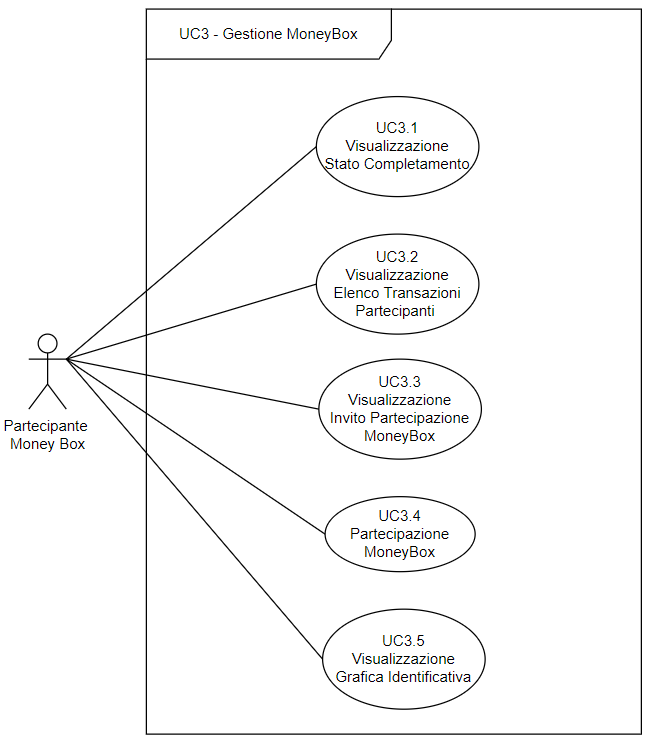
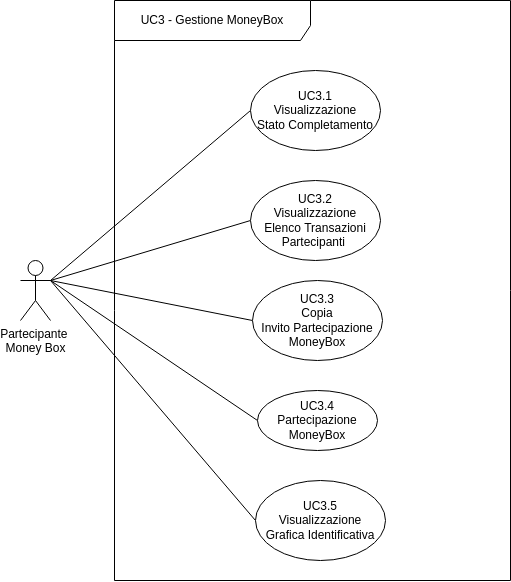
Fixes to Use Cases

diff --git a/src/analisi_dei_requisiti/sezioni/casi_uso.tex b/src/analisi_dei_requisiti/sezioni/casi_uso.tex
@@ -27,7 +27,7 @@ sono quindi presenti differenti attori nella gerarchia:
     \caption{Diagramma degli attori}
 \end{figure}
 
-\subsection{UC1 - Inizializzazione della Transazione}\label{subsection: UC1}
+\subsection{UC1 - Inizializzazione dell'Ordine}\label{subsection: UC1}
 
 \begin{figure}[H]
     \centering
@@ -38,7 +38,7 @@ sono quindi presenti differenti attori nella gerarchia:
 \begin{itemize}
     \item Attore primario: e-commerce\glo{};
     \item Precondizioni: il sistema è raggiungibile e funzionante;
-    \item Postcondizioni: la transazione viene caricata nel sistema, l'utente viene reindirizzato alla pagina di checkout;
+    \item Postcondizioni: l'ordine viene caricato nel sistema, l'utente viene reindirizzato alla pagina di checkout;
     \item Scenario principale: L'e-commerce\glo{} delega il pagamento comunicando la somma richiesta e l'indirizzo del destinatario.
 \end{itemize}
 
@@ -52,7 +52,7 @@ sono quindi presenti differenti attori nella gerarchia:
 
 \begin{itemize}
     \item Attore primario: utente proprietario dell'ordine, acquirente;
-    \item Precondizioni: l'e-commerce\glo{} ha iniziato la transazione [UC1];
+    \item Precondizioni: l'e-commerce\glo{} ha iniziato l'ordine [UC1];
     \item Postcondizioni: viene visualizzato l'esito dell'operazione;
     \item Scenario principale:
     \begin{enumerate}
@@ -67,7 +67,7 @@ sono quindi presenti differenti attori nella gerarchia:
 
 \begin{itemize}
     \item Attore primario: acquirente;
-    \item Precondizioni: l'e-commerce\glo{} ha iniziato la transazione [UC1];
+    \item Precondizioni: l'e-commerce\glo{} ha iniziato l'ordine [UC1];
     \item Postcondizioni: l'acquirente ha visualizzato il riepilogo dell'ordine;
     \item Scenario principale:
           \begin{enumerate}
@@ -80,7 +80,7 @@ sono quindi presenti differenti attori nella gerarchia:
 
 \begin{itemize}
     \item Attore primario: utente proprietario dell'ordine;
-    \item Precondizioni: l'e-commerce\glo{} ha iniziato la transazione [UC1];
+    \item Precondizioni: l'e-commerce\glo{} ha iniziato l'ordine [UC1];
     \item Postcondizioni: il proprietario dell'ordine ha selezionato un metodo di pagamento;
     \item Scenario principale: il proprietario dell'ordine seleziona la tipologia di pagamento obbligando i successivi pagamenti per questa transazione alla tipologia scelta;
     \item Estensioni:
@@ -102,7 +102,7 @@ sono quindi presenti differenti attori nella gerarchia:
 
 \begin{itemize}
     \item Attore primario: utente proprietario dell'ordine;
-    \item Precondizioni: l'e-commerce\glo{} ha iniziato la transazione [UC1];
+    \item Precondizioni: l'e-commerce\glo{} ha iniziato l'ordine [UC1];
     \item Postcondizioni: il proprietario dell'ordine ha selezionato pagamento unico come metodo di pagamento;
     \item Scenario principale: 
         \begin{itemize}
@@ -115,13 +115,13 @@ sono quindi presenti differenti attori nella gerarchia:
 
 \begin{itemize}
     \item Attore primario: utente proprietario dell'ordine;
-    \item Precondizioni: l'e-commerce\glo{} ha iniziato la transazione [UC1];
-    \item Postcondizioni: il proprietario dell'ordine ha selezionato pagamento MoneyBox\glo{} come metodo di pagamento;
+    \item Precondizioni: l'e-commerce\glo{} ha iniziato l'ordine [UC1];
+    \item Postcondizioni: il proprietario dell'ordine ha selezionato pagamento MoneyBox\glo{} come metodo di pagamento e può procedere alla sua creazione;
     \item Scenario principale: 
         \begin{itemize}
             \item Il proprietario dell'ordine seleziona pagamento MoneyBox\glo{} come metodo di pagamento;
-            \item Viene creata la MoneyBox\glo{};
-            \item Vengono vincolati i successivi pagamenti per questa transazione ad un pagamento parziale della somma totale rimanente (UC2.3.2), i quali potranno essere effettuati da un qualsiasi partecipante MoneyBox\glo{}.
+            \item Il proprietario dell'ordine può selezionare un ammontare iniziale da versare nella MoneyBox\glo{};
+            \item Il proprietario dell'ordine può procedere alla creazione della MoneyBox\glo{}.
         \end{itemize}
 \end{itemize}
 
@@ -129,8 +129,8 @@ sono quindi presenti differenti attori nella gerarchia:
 
 \begin{itemize}
     \item Attore primario: utente proprietario dell'ordine;
-    \item Precondizioni: l'e-commerce\glo{} ha iniziato la transazione [UC1], transazione già presente in blockchain;
-    \item Postcondizioni: il proprietario dell'ordine ha visualizzato il messaggio di avviso transazione esistente;
+    \item Precondizioni: l'e-commerce\glo{} ha iniziato l'ordine [UC1], transazione già presente in blockchain;
+    \item Postcondizioni: il proprietario dell'ordine ha visualizzato un messaggio di errore;
     \item Scenario principale: il proprietario dell'ordine visualizza il messaggio di avviso, poiché la transazione è già presente in blockchain\glo{}.
 \end{itemize}
 
@@ -145,15 +145,15 @@ sono quindi presenti differenti attori nella gerarchia:
 \begin{itemize}
     \item Attore primario: acquirente;
     \item Attore secondario: Metamask\glo{};
-    \item Precondizioni: è stata selezionata una tipologia di pagamento per la transazione interessata dal proprietario dell'ordine [UC2.2], 
+    \item Precondizioni: è stata selezionata una tipologia di pagamento per l'ordine interessato, dal proprietario dell'ordine [UC2.2], 
             l'acquirente ha connesso il proprio wallet\glo{} tramite Metamask\glo{} [UC4];
     \item Postcondizioni: l'acquirente ha effettuato il pagamento;
     \item Scenario principale:
           \begin{enumerate}
               \item L'acquirente visualizza il pop-up di Metamask\glo{} con i dettagli della transazione;
               \item L'acquirente visualizza un overlay di caricamento sulla pagina di ShopChain;
-              \item L'acquirente autorizza la transazione per l'importo impostato a seconda della tipologia precedentemente scelta dal proprietario dell'ordine (in UC2.2);
-              \item L'acquirente visualizza un messaggio di conferma di avvenuto pagamento.
+              \item L'acquirente autorizza la transazione per l'importo impostato (che nel caso MoneyBox\glo{} può essere nullo o a scelta) a seconda della tipologia precedentemente selezionata dal proprietario dell'ordine (in UC2.2);
+              \item L'acquirente visualizza un messaggio di conferma di avvenuto pagamento o un riscontro dell'avvenuta creazione della MoneyBox\glo{}.
           \end{enumerate}
     \item Estensioni:
           \begin{enumerate}
@@ -190,14 +190,14 @@ sono quindi presenti differenti attori nella gerarchia:
 
 \begin{itemize}
     \item Attore primario: partecipante MoneyBox\glo{};
-    \item Precondizioni: è stata selezionato Pagamento MoneyBox\glo{} come tipologia di pagamento per la transazione interessata [UC2.2.2], 
-            Il partecipante MoneyBox\glo{} ha connesso il proprio wallet\glo{} tramite Metamask\glo{} [UC4];
-    \item Postcondizioni: Il partecipante MoneyBox\glo{} ha pagato l'importo scelto;
+    \item Precondizioni: è stato selezionato Pagamento MoneyBox\glo{} come tipologia di pagamento per la transazione interessata [UC2.2.2], 
+            il partecipante MoneyBox\glo{} ha connesso il proprio wallet\glo{} tramite Metamask\glo{} [UC4];
+    \item Postcondizioni: la MoneyBox\glo{} è registrata in blockchain e il partecipante MoneyBox\glo{} ha pagato l'importo scelto se non nullo;
     \item Scenario principale:
     \begin{enumerate}
         \item Il partecipante MoneyBox\glo{} visualizza il pop-up di Metamask\glo{} con i dettagli della transazione;
         \item Il partecipante MoneyBox\glo{} visualizza un overlay di caricamento sulla pagina di ShopChain;
-        \item Il partecipante MoneyBox\glo{} autorizza la transazione per l'importo scelto;
+        \item Il partecipante MoneyBox\glo{} autorizza la transazione relativa alla creazione della MoneyBox\glo{} e ad un eventuale suo versamento a scelta;
         \item Il partecipante MoneyBox\glo{} visualizza un messaggio di conferma di avvenuto pagamento.
     \end{enumerate}
 \end{itemize}
@@ -215,7 +215,7 @@ sono quindi presenti differenti attori nella gerarchia:
           \end{enumerate}
 \end{itemize}
 
-\paragraph{UC2.4 - Visualizzazione Codice di Sblocco}
+\subsection{UC2.4 - Visualizzazione Codice di Sblocco}
 
 \begin{itemize}
     \item Attore primario: utente proprietario dell'ordine;
@@ -238,13 +238,13 @@ sono quindi presenti differenti attori nella gerarchia:
 
 \begin{itemize}
     \item Attore primario: partecipante MoneyBox\glo{};
-    \item Precondizioni: il proprietario dell'ordine ha selezionato il pagamento MoneyBox\glo{} [UC2.2.2];
+    \item Precondizioni: il proprietario dell'ordine ha selezionato il pagamento MoneyBox\glo [UC2.2.2];
     \item Postcondizioni: il partecipante MoneyBox\glo{} ha visualizzato i dati relativi la MoneyBox\glo{};
     \item Scenario principale:
           \begin{enumerate}
                 \item Il partecipante MoneyBox\glo{} può visualizzare lo stato del completamento in formato percentuale e il saldo mancante [UC3.1];
                 \item Il partecipante MoneyBox\glo{} può visualizzare un elenco delle transazioni partecipanti [UC3.2];
-                \item Il partecipante MoneyBox\glo{} può visualizzare l'invito per partecipare alla MoneyBox\glo{} [UC3.3];
+                \item Il partecipante MoneyBox\glo{} può copiare l'invito di partecipazione alla MoneyBox\glo{} [UC3.3];
                 \item Il partecipante MoneyBox\glo{} può partecipare alla MoneyBox\glo{} [UC3.4];
                 \item Il partecipante MoneyBox\glo{} può visualizzare una grafica identificativa della MoneyBox\glo{} [UC3.5].
     \end{enumerate}
@@ -254,7 +254,7 @@ sono quindi presenti differenti attori nella gerarchia:
 
 \begin{itemize}
     \item Attore primario: partecipante MoneyBox\glo{};
-    \item Precondizioni: il proprietario dell'ordine ha selezionato il pagamento MoneyBox\glo{} [UC2.2.2], 
+    \item Precondizioni: il proprietario dell'ordine ha selezionato il pagamento MoneyBox\glo [UC2.2.2], 
             l'utente dispone dell'invito valido ad una MoneyBox\glo{} [UC3.3];
     \item Postcondizioni: il partecipante MoneyBox\glo{} ha visualizzato lo stato del completamento;
     \item Scenario principale: il partecipante MoneyBox\glo{} visualizza lo stato del completamento in formato percentuale e il saldo mancante.
@@ -264,7 +264,7 @@ sono quindi presenti differenti attori nella gerarchia:
 
 \begin{itemize}
     \item Attore primario: partecipante MoneyBox\glo{};
-    \item Precondizioni: il proprietario dell'ordine ha selezionato il pagamento MoneyBox\glo{} [UC2.2.2], 
+    \item Precondizioni: il proprietario dell'ordine ha selezionato il pagamento MoneyBox\glo [UC2.2.2], 
             l'utente dispone dell'invito valido ad una MoneyBox\glo{} [UC3.3];
     \item Postcondizioni: il partecipante MoneyBox\glo{} ha visualizzato l'elenco delle transazioni partecipanti;
     \item Scenario principale: il partecipante MoneyBox\glo{} visualizza l'elenco delle transazioni partecipanti con i seguenti dettagli:
@@ -275,27 +275,26 @@ sono quindi presenti differenti attori nella gerarchia:
         \end{itemize}
 \end{itemize}
 
-\subsubsection{UC3.3 - Visualizzazione Invito Partecipazione MoneyBox}
+\subsubsection{UC3.3 - Copia Invito Partecipazione MoneyBox}
 
 \begin{itemize}
     \item Attore primario: partecipante MoneyBox\glo{};
-    \item Precondizioni: il proprietario dell'ordine ha selezionato il pagamento MoneyBox\glo{} [UC2.2.2];
-    \item Postcondizioni: il partecipante MoneyBox\glo{} ha visualizzato l'invito alla MoneyBox\glo{};
-    \item Scenario principale: il partecipante MoneyBox\glo{} visualizza l'invito alla MoneyBox\glo{}.
+    \item Precondizioni: il proprietario dell'ordine ha selezionato il pagamento MoneyBox\glo [UC2.2.2], la MoneyBox\glo{} è stata creata [UC2.3.2] e l'utente visualizza correttamente lo stato della MoneyBox\glo{} [UC3.1];
+    \item Postcondizioni: il partecipante MoneyBox\glo{} ha copiato negli appunti il link di condivisione della MoneyBox\glo{}.
+    \item Scenario principale: il partecipante MoneyBox\glo{} clicca un pulsante che copia negli appunti il link di condivisione della MoneyBox\glo{}.
 \end{itemize}
 
 \subsubsection{UC3.4 - Partecipazione MoneyBox}
 
 \begin{itemize}
     \item Attore primario: partecipante MoneyBox\glo{};
-    \item Precondizioni: il proprietario dell'ordine ha selezionato il pagamento MoneyBox\glo{} [UC2.2.2], 
+    \item Precondizioni: il proprietario dell'ordine ha selezionato il pagamento MoneyBox\glo [UC2.2.2], 
             l'utente dispone dell'invito valido ad una MoneyBox\glo{} [UC3.3];
-    \item Postcondizioni: il partecipante MoneyBox\glo{} ha selezionato la quota da versare e ha visualizzato la pagina di checkout;
+    \item Postcondizioni: il partecipante MoneyBox\glo{} ha selezionato la quota da versare e ha autorizzato la transazione;
     \item Scenario principale:
           \begin{enumerate}
-              \item Il partecipante MoneyBox\glo{} seleziona la quota da versare, compresa tra zero escluso e il minimo tra il saldo disponibile nel wallet\glo{} 
-                    e il rimanente della MoneyBox\glo{};
-              \item Il partecipante MoneyBox\glo{} viene reindirizzato alla pagina di checkout con la quota scelta [UC2].
+              \item Il partecipante MoneyBox\glo{} seleziona la quota da versare, compresa tra zero escluso e il restante saldo da pagare nella MoneyBox\glo{}
+              \item Il partecipante MoneyBox\glo{} autorizza la transazione dal popup Metamask\glo{}.
           \end{enumerate}
 \end{itemize}
 
@@ -303,7 +302,7 @@ sono quindi presenti differenti attori nella gerarchia:
 
 \begin{itemize}
     \item Attore primario: partecipante MoneyBox\glo{};
-    \item Precondizioni: il proprietario dell'ordine ha selezionato il pagamento MoneyBox\glo{} [UC2.2.2], 
+    \item Precondizioni: il proprietario dell'ordine ha selezionato il pagamento MoneyBox\glo [UC2.2.2], 
             l'utente dispone dell'invito valido ad una MoneyBox\glo{} [UC3.3];
     \item Postcondizioni: il partecipante MoneyBox\glo{} ha visualizzato l'indirizzo della MoneyBox\glo{} come grafica identificativa;
     \item Scenario principale: il partecipante MoneyBox\glo{} visualizza l'indirizzo della MoneyBox\glo{} come grafica identificativa.
@@ -457,17 +456,17 @@ sono quindi presenti differenti attori nella gerarchia:
     \item Estensione: Nel caso in cui la transazione sia già stata sbloccata:
           \begin{enumerate}
               \item Viene impedito lo sblocco;
-              \item Viene mostrato un errore di Transazione Già Sbloccata [UC6.1].
+              \item Viene mostrato un errore di Ordine Già Sbloccato [UC6.1].
           \end{enumerate}
 \end{itemize}
 
-\subsubsection{UC6.1 - Visualizza Errore Transazione Già Sbloccata}
+\subsubsection{UC6.1 - Visualizza Errore Ordine Già Sbloccato}
 
 \begin{itemize}
     \item Attore primario: utente proprietario dell'ordine;
-    \item Precondizioni: il sistema è raggiungibile e funzionante, la transazione è già stata sbloccata;
-    \item Postcondizioni: il proprietario dell'ordine ha visualizzato l'errore di transazione già sbloccata;
-    \item Scenario principale: il proprietario dell'ordine visualizza l'errore di transazione già sbloccata.
+    \item Precondizioni: il sistema è raggiungibile e funzionante, l'ordine è già stato sbloccato;
+    \item Postcondizioni: il proprietario dell'ordine ha visualizzato l'errore di ordine già sbloccato;
+    \item Scenario principale: il proprietario dell'ordine visualizza l'errore di ordine già sbloccato.
 \end{itemize}
 
 \subsection{UC7 - Visualizzazione Transazioni}

diff --git a/src/analisi_dei_requisiti/sezioni/requisiti.tex b/src/analisi_dei_requisiti/sezioni/requisiti.tex
@@ -20,7 +20,7 @@ Il gruppo \groupName{} per classificare e assegnare i requisiti del capitolato h
         R1F2.1                                                            & Obbligatorio & L'utente deve poter scegliere la tipologia di pagamento unico.                                & \Shortunderstack{Verbale Esterno 15.11.21\\UC2.2.1\\}      \\
         R2F2.2                                                            & Desiderabile & L'utente deve poter scegliere la tipologia di pagamento MoneyBox\glo{}.                       & \Shortunderstack{Verbale Esterno 15.11.21\\UC2.2.2\\}      \\
         R2F2.2.1                                                          & Desiderabile & Si deve poter visualizzare lo stato di completamento della MoneyBox\glo{}.                    & UC3.1                                 \\
-        R2F2.2.2                                                          & Desiderabile & Si deve poter visualizzare l'invito di partecipazione alla MoneyBox\glo{}.                    & UC3.3                                 \\
+        R2F2.2.2                                                          & Desiderabile & Si deve poter copiare l'invito di partecipazione alla MoneyBox\glo{}.                         & UC3.3                                 \\
         R3F2.2.3                                                          & Opzionale    & L'utente deve poter visualizzare una traduzione visiva dell'indirizzo MoneyBox\glo{}.         & \Shortunderstack{Verbale Esterno 17.01.22\\UC3.5\\}        \\
         R2F2.2.4                                                          & Desiderabile & Si deve poter chiudere la MoneyBox\glo{} restituendo i soldi.                                 & UC8, UC9                                  \\
         R2F2.2.5                                                          & Desiderabile & L'utente deve poter visualizzare l'elenco delle transazioni partecipanti alla MoneyBox\glo{}. & \Shortunderstack{Capitolato\\UC3.2\\} \\
@@ -47,7 +47,7 @@ Il gruppo \groupName{} per classificare e assegnare i requisiti del capitolato h
         R2F5.2                                                            & Desiderabile & L'utente che partecipa al pagamento MoneyBox\glo{} deve poter pagare una parte della somma richiesta.                 & \Shortunderstack{Verbale Esterno 15.11.21\\UC2.3.2\\}      \\
         R1F5.3                                                            & Obbligatorio & L'utente deve poter visualizzare il codice di sblocco generato dal sistema.                                           & UC2.4                                 \\
         R1F5.4                                                            & Obbligatorio & L'utente deve poter visualizzare un messaggio d'errore nel caso in cui la transazione fallisca.                       & UC2.3.3                               \\
-        R1F6                                                              & Obbligatorio & Il proprietario dell'ordine o il venditore devono poter richiedere il rimborso della transazione.                     & \Shortunderstack{Capitolato\\UC8, UC9\\}   \\
+        R1F6                                                              & Obbligatorio & Il proprietario dell'ordine o il venditore devono poter richiedere il rimborso dell'ordine.                           & \Shortunderstack{Capitolato\\UC8, UC9\\}   \\
         R1F7                                                              & Obbligatorio & Il proprietario dell'ordine deve poter confermare la ricezione e quindi sbloccare i fondi dallo smart contract\glo{}. & \Shortunderstack{Capitolato\\UC6\\}   \\
         R1F8                                                              & Obbligatorio & L'utente deve poter visualizzare le transazioni.                                                                      & \Shortunderstack{Capitolato\\UC7\\}   \\
         R2F8.1                                                            & Desiderabile & Il venditore deve poter visualizzare le transazioni in entrata pagate.                                                & \Shortunderstack{Capitolato\\UC7.1\\} \\
@@ -82,7 +82,6 @@ Il gruppo \groupName{} per classificare e assegnare i requisiti del capitolato h
         R1F11.2                                                           & Obbligatorio & L'utente deve poter visualizzare un avviso della mancata connessione a Metamask\glo{}.                     & UC5.3                    \\
         R3F11.3                                                           & Opzionale    & L'utente deve poter visualizzare il suo indirizzo wallet\glo{} sotto forma di stringa di emoji.                  & UC5.2                    \\
         R3F12                                                             & Opzionale    & Gli utenti partecipanti devono ricevere una notifica al completamento della MoneyBox\glo{}.                & Verbale Interno 02.03.22 \\
-        R1F13                                                             & Obbligatorio & L'utente deve poter visualizzare il dettaglio dell'errore della transazione.                               & UC2.3.3                  \\
     \end{tabular}
 \end{table}
 \begin{center}

diff --git a/src/analisi_dei_requisiti/contenuto/changelog.tex b/src/analisi_dei_requisiti/contenuto/changelog.tex
@@ -11,6 +11,7 @@
 		\multicolumn{1}{c}{\color[HTML]{FFFFFF} \textbf{Ruolo}}    &
 		\multicolumn{1}{c}{\color[HTML]{FFFFFF} \textbf{Descrizione}} \\
 		\endhead
+		2.0.2 & 2022/05/11 & \Longunderstack{Matteo Midena} & \Longunderstack{Analista} & Riadattamento specifica di alcuni casi d'uso\\
 		2.0.1 & 2022/05/02 & \Longunderstack{Luca Carturan,\\Matteo Midena} & \Longunderstack{Analista,\\Verificatore} & Modifiche ai requisiti funzionali\\
 		2.0.0 & 2022/03/07 & Francesco Bugno & Responsabile & Approvato per il rilascio\\
 		1.1.0 & 2022/03/07 & Luca Busacca & Verificatore & Verifica generale del documento\\
